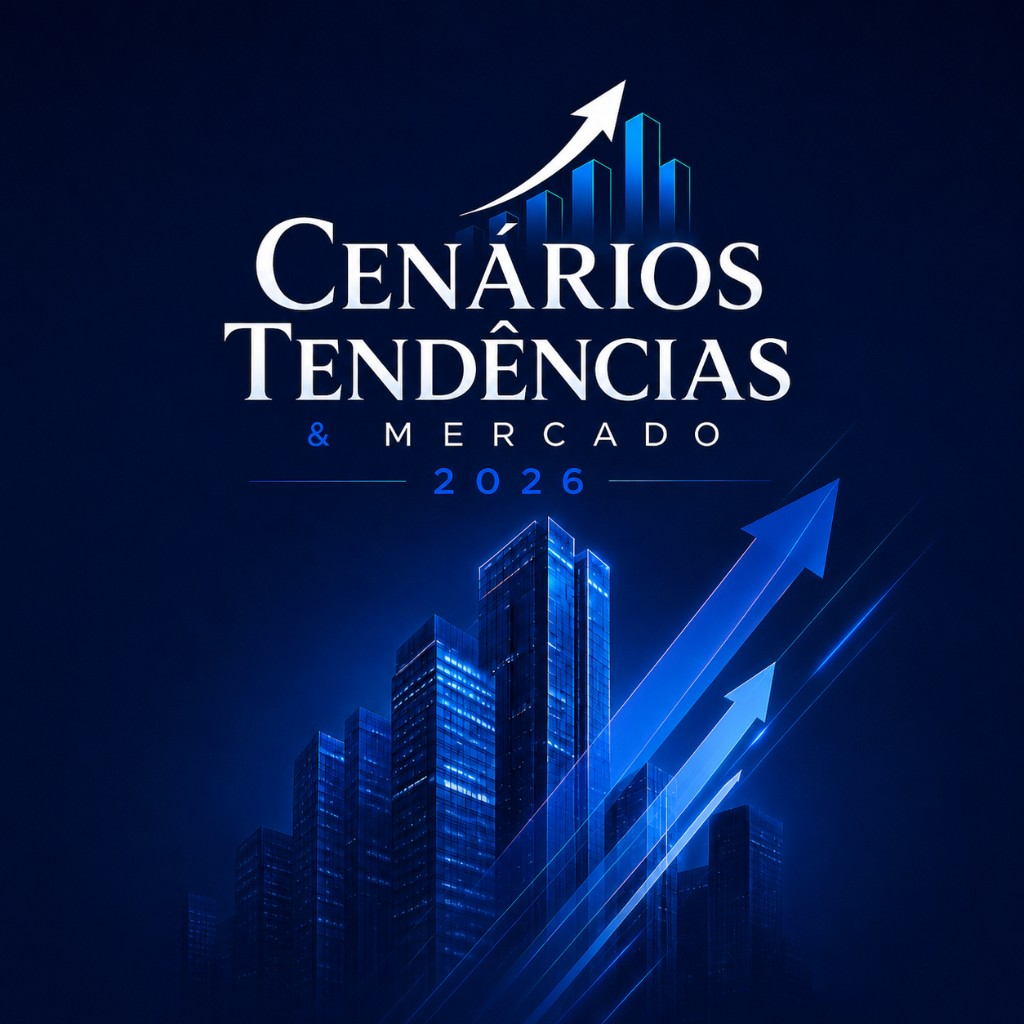
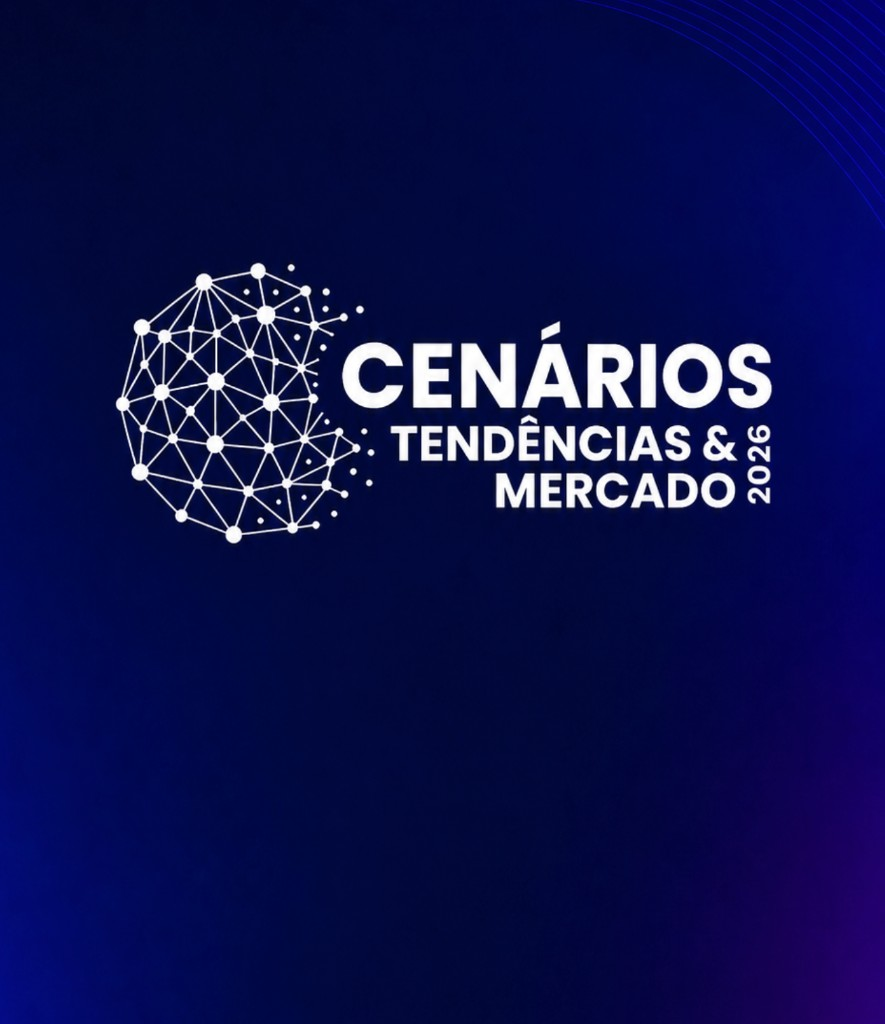
feat(eventos): atualizar landing Cenários Tendências 2026 com programação e artes.
Inclui nova logo, programação revisada, destaques dos palestrantes, banner de patrocinadores/apoio e contagem regressiva às 17h30.

diff --git a/frontend/src/components/eventos/CenariosTendencias2026Landing.tsx b/frontend/src/components/eventos/CenariosTendencias2026Landing.tsx
@@ -39,31 +39,6 @@ const REALIZACAO_LOGOS: PartnerLogoConfig[] = [
   },
 ];
 
-/** Patrocinadores comerciais (logos em public/eventos/cenarios-tendencias-2026/patrocinadores/). */
-const PATROCINADORES_LOGOS: PartnerLogoConfig[] = [];
-
-const APOIO_LOGOS: PartnerLogoConfig[] = [
-  {
-    src: '/eventos/cenarios-tendencias-2026/parceiros/sebrae.png',
-    alt: 'Sebrae',
-    width: 200,
-    height: 108,
-  },
-  {
-    src: '/eventos/cenarios-tendencias-2026/parceiros/governo-bahia.png',
-    alt: 'Governo do Estado da Bahia',
-    width: 260,
-    height: 84,
-    blendDarken: true,
-  },
-  {
-    src: '/eventos/cenarios-tendencias-2026/parceiros/cielo.png',
-    alt: 'Cielo',
-    width: 200,
-    height: 70,
-  },
-];
-
 const INFO_CARDS = [
   {
     icon: CalendarIcon,
@@ -93,10 +68,10 @@ const INFO_CARDS = [
 
 const STRUCTURE = [
   { time: '16h', label: 'Atividades externas', detail: 'Integração, networking e ações com parceiros no entorno do auditório.' },
-  { time: '18h', label: 'Credenciamento', detail: 'Recepção dos participantes e check-in no auditório.' },
-  { time: '19h', label: 'Abertura oficial', detail: 'Autoridades, CDL, Sebrae e instituições parceiras.' },
-  { time: '19h40', label: 'Palestras e painéis', detail: 'Conteúdo técnico com especialistas nacionais e regionais.' },
-  { time: '22h', label: 'Encerramento', detail: 'Coquetel de encerramento e relacionamento empresarial.' },
+  { time: '17h30', label: 'Credenciamento e networking', detail: 'Recepção, check-in e integração entre participantes.' },
+  { time: '18h30', label: 'Abertura oficial', detail: 'Cerimônia de abertura com autoridades e instituições parceiras.' },
+  { time: '19h', label: 'Palestras', detail: 'Comunicação, tendências do varejo, relações de trabalho e reforma tributária.' },
+  { time: '22h05', label: 'Encerramento oficial', detail: 'Encerramento do evento.' },
 ] as const;
 
 type ScheduleParticipant = { name: string; role: string };
@@ -112,63 +87,78 @@ type ScheduleItem = {
 
 const SCHEDULE: ScheduleItem[] = [
   {
-    time: '18:00',
-    type: 'Credenciamento',
-    note: 'Recepção e check-in no auditório.',
+    time: '17:30',
+    type: 'Credenciamento e networking',
+    note: '17h30 às 18h30',
+    participants: [],
+  },
+  {
+    time: '18:30',
+    type: 'Abertura oficial',
+    note: 'Cerimônia de abertura do evento.',
     participants: [],
   },
   {
     time: '19:00',
-    type: 'Abertura',
-    participants: [
-      { name: 'Caio Arruda', role: 'Presidente da CDL Paulo Afonso' },
-      { name: 'Mário Galinho', role: 'Prefeito de Paulo Afonso' },
-      { name: 'Jorge Khoury', role: 'Diretor-Superintendente do Sebrae Bahia' },
-      { name: 'Angelo Almeida', role: 'Deputado Estadual' },
-      { name: 'Zé Neto', role: 'Deputado Federal' },
-    ],
+    type: 'Palestra 01',
+    theme: 'Comunicação e Propaganda para o Varejo',
+    note: '19h00 às 19h20',
+    participants: [{ name: 'Juliana Jozzolino', role: 'Diretora Comercial da Rede Bahia' }],
   },
   {
     time: '19:40',
-    type: 'Palestra 1',
-    theme: 'Pós-NRF: o som da confiança em tempos artificiais',
+    type: 'Palestra 02',
+    theme: 'Pós-NRF: Tendências para o Comércio Mundial',
     participants: [{ name: 'Marcela Cabral', role: 'Palestrante' }],
   },
   {
     time: '20:30',
-    type: 'Painel 1',
-    theme: 'A importância do associativismo',
-    participants: [
-      { name: 'Pedro Luiz Failla', role: 'Presidente da FCDL Bahia' },
-      { name: 'Paulo Cavalcanti', role: 'Presidente da FACEB' },
-      { name: 'Kelsor Fernandes', role: 'Presidente da Fecomércio — BA' },
-    ],
+    type: 'Palestra 03',
+    theme: 'Teses Vinculantes do TST: Impactos nas Relações de Trabalho',
+    participants: [{ name: 'Luziane Farias', role: 'Juíza da 37ª Vara do Trabalho de Salvador' }],
   },
   {
-    time: '21:00',
-    type: 'Palestra 2',
-    theme: 'Teses vinculantes do TST: impactos nas relações de trabalho',
-    participants: [
-      { name: 'Luziane Farias', role: 'Juíza da 37ª Vara do Trabalho de Salvador' },
-    ],
+    time: '21:20',
+    type: 'Palestra 04',
+    theme: 'Reforma Tributária: O que muda e como isso impacta o seu negócio',
+    participants: [{ name: 'Glicio Oliveira', role: 'Empresário e palestrante em finanças corporativas' }],
   },
   {
-    time: '21:30',
-    type: 'Palestra 3',
-    theme: 'Reforma Tributária',
-    participants: [
-      { name: 'Glicio Oliveira', role: 'Empresário e palestrante em finanças corporativas' },
-    ],
+    time: '22:05',
+    type: 'Encerramento oficial',
+    note: 'Encerramento do evento.',
+    participants: [],
   },
 ];
 
-const HIGHLIGHTS = [
+type HighlightConfig = {
+  name: string;
+  topic: string;
+  image: string;
+};
+
+const HIGHLIGHTS: HighlightConfig[] = [
+  {
+    name: 'Juliana Jozzolino',
+    topic: 'Comunicação e Propaganda para o Varejo',
+    image: '/eventos/cenarios-tendencias-2026/destaques/palestra-01-juliana-jozzolino.png',
+  },
   {
     name: 'Marcela Cabral',
-    role: 'Palestrante',
-    topic: 'Pós-NRF: o som da confiança em tempos artificiais',
+    topic: 'Pós-NRF: Tendências para o Comércio Mundial',
+    image: '/eventos/cenarios-tendencias-2026/destaques/palestra-02-marcela-cabral.png',
   },
-] as const;
+  {
+    name: 'Luziane Farias',
+    topic: 'Teses Vinculantes do TST: Impactos nas Relações de Trabalho',
+    image: '/eventos/cenarios-tendencias-2026/destaques/palestra-03-luziane-farias.png',
+  },
+  {
+    name: 'Glicio Oliveira',
+    topic: 'Reforma Tributária: O que muda e como isso impacta o seu negócio',
+    image: '/eventos/cenarios-tendencias-2026/destaques/palestra-04-glicio-oliveira.png',
+  },
+];
 
 function ScheduleProgramCard({ item }: { item: ScheduleItem }) {
   return (
@@ -254,12 +244,12 @@ export function CenariosTendencias2026Landing() {
           </nav>
 
           <div className="flex flex-1 flex-col items-center justify-center px-4 pb-16 pt-4 text-center sm:px-8">
-            <div className="ctm-animate-float mx-auto w-full max-w-md sm:max-w-lg md:max-w-xl">
+            <div className="ctm-animate-float mx-auto w-full max-w-xl sm:max-w-2xl md:max-w-3xl">
               <Image
                 src="/eventos/cenarios-tendencias-2026/logo-evento.png"
                 alt="Cenários, Tendências e Mercado 2026"
-                width={640}
-                height={400}
+                width={1024}
+                height={576}
                 className="mx-auto h-auto w-full drop-shadow-[0_0_40px_rgba(56,189,248,0.25)]"
                 priority
               />
@@ -312,7 +302,7 @@ export function CenariosTendencias2026Landing() {
               Falta pouco para o <span className="ctm-text-shimmer">grande encontro</span>
             </h2>
             <p className="mt-2 text-center text-sm text-slate-400">
-              Início das atividades — 11 de junho de 2026, às 16h
+              Início das atividades — 11 de junho de 2026, às 17h30
             </p>
             <div className="mt-10">
               <EventCountdown />
@@ -421,7 +411,7 @@ export function CenariosTendencias2026Landing() {
               Painéis e palestras
             </h2>
             <p className="mt-3 max-w-2xl text-slate-400">
-              Credenciamento às 18h, abertura às 19h e programação técnica a partir das 19h40, com especialistas de
+              Credenciamento e networking às 17h30, abertura às 18h30 e palestras a partir das 19h, com especialistas de
               referência nacional e regional.
             </p>
           </RevealSection>
@@ -445,14 +435,19 @@ export function CenariosTendencias2026Landing() {
               Referências que movem o mercado
             </h2>
           </RevealSection>
-          <div className="mx-auto mt-10 max-w-xl">
+          <div className="mx-auto mt-10 grid max-w-5xl gap-5 sm:grid-cols-2 lg:max-w-6xl lg:grid-cols-4 lg:gap-6">
             {HIGHLIGHTS.map((h, i) => (
-              <RevealSection key={h.name} delayMs={i * 100}>
-                <div className="rounded-2xl border border-sky-500/20 bg-gradient-to-br from-sky-950/50 to-slate-900/30 p-8">
-                  <h3 className="font-[var(--font-ctm-display)] text-2xl font-semibold text-white">{h.name}</h3>
-                  <p className="mt-1 text-sm font-medium text-sky-400">{h.role}</p>
-                  <p className="mt-4 text-slate-300 leading-relaxed">{h.topic}</p>
-                </div>
+              <RevealSection key={h.name} delayMs={i * 80}>
+                <figure className="overflow-hidden rounded-2xl border border-sky-500/20 shadow-xl shadow-sky-900/25 transition hover:border-sky-400/35 hover:shadow-sky-900/40">
+                  <Image
+                    src={h.image}
+                    alt={`${h.name} — ${h.topic}`}
+                    width={576}
+                    height={1024}
+                    className="h-auto w-full"
+                    sizes="(max-width: 640px) 100vw, (max-width: 1024px) 50vw, 25vw"
+                  />
+                </figure>
               </RevealSection>
             ))}
           </div>
@@ -523,21 +518,6 @@ export function CenariosTendencias2026Landing() {
                 Fale com a CDL
               </a>
             </div>
-
-            <div className="mt-16 border-t border-white/10 pt-12">
-              <SectionLabel>Patrocinadores</SectionLabel>
-              {PATROCINADORES_LOGOS.length > 0 ? (
-                <div className="mx-auto mt-8 grid max-w-3xl grid-cols-2 justify-items-center gap-3 sm:grid-cols-3 sm:gap-4">
-                  {PATROCINADORES_LOGOS.map((logo, i) => (
-                    <RevealSection key={logo.alt} delayMs={i * 60}>
-                      <PartnerLogoCard logo={logo} />
-                    </RevealSection>
-                  ))}
-                </div>
-              ) : (
-                <p className="mt-6 text-sm text-slate-500">Em breve divulgaremos nossos patrocinadores.</p>
-              )}
-            </div>
           </RevealSection>
         </div>
       </section>
@@ -555,15 +535,14 @@ export function CenariosTendencias2026Landing() {
               ))}
             </div>
 
-            <div className="mt-14 text-center">
-              <SectionLabel>Apoio</SectionLabel>
-            </div>
-            <div className="mt-8 grid grid-cols-2 justify-items-center gap-3 sm:grid-cols-3 sm:gap-4">
-              {APOIO_LOGOS.map((logo, i) => (
-                <RevealSection key={logo.alt} delayMs={i * 60}>
-                  <PartnerLogoCard logo={logo} />
-                </RevealSection>
-              ))}
+            <div className="mx-auto mt-14 max-w-5xl">
+              <Image
+                src="/eventos/cenarios-tendencias-2026/patrocinadores-apoio.png"
+                alt="Patrocinadores: Aliança Motos, ATEL, Fiat Cachoeira, Sicoob e NeoTech. Apoio: Sebrae, Cielo, Governo do Estado da Bahia, Rede Bahia TV São Francisco e UniRios."
+                width={1024}
+                height={576}
+                className="mx-auto h-auto w-full rounded-2xl border border-sky-500/15 shadow-xl shadow-sky-900/20"
+              />
             </div>
           </RevealSection>
         </div>

diff --git a/frontend/src/components/eventos/EventCountdown.tsx b/frontend/src/components/eventos/EventCountdown.tsx
@@ -2,8 +2,8 @@
 
 import { useEffect, useState } from 'react';
 
-/** Início das atividades externas — 11/06/2026, 16h (horário de Brasília). */
-const EVENT_START = new Date('2026-06-11T16:00:00-03:00');
+/** Início das atividades — 11/06/2026, 17h30 (horário de Brasília). */
+const EVENT_START = new Date('2026-06-11T17:30:00-03:00');
 
 type TimeLeft = {
   days: number;